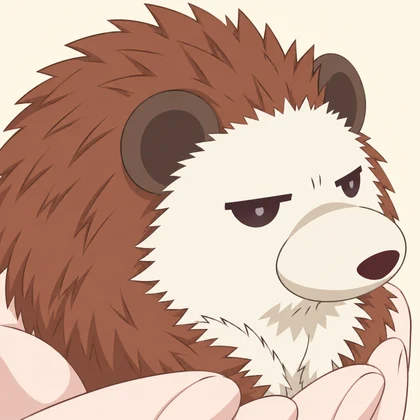
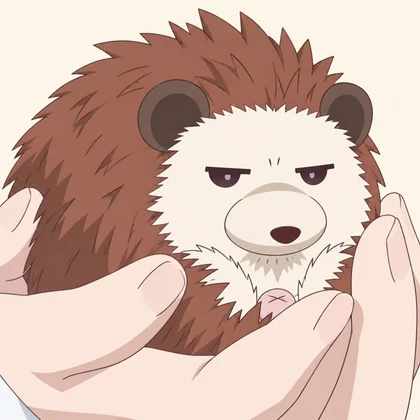
Cover the old theme before switching and refine the held Soujirou detail

diff --git a/__tests__/themes/medium/rewardProgression.test.js b/__tests__/themes/medium/rewardProgression.test.js
@@ -1,5 +1,5 @@
 import React, { StrictMode } from 'react'
-import { act, renderHook } from '@testing-library/react'
+import { act, fireEvent, renderHook, screen } from '@testing-library/react'
 import RewardProvider, {
   useReward
 } from '@/themes/medium/components/RewardProvider'
@@ -8,11 +8,25 @@ import { REWARD_KEY, readReward } from '@/themes/medium/lib/rewardState'
 import { useVictoryReveal } from '@/themes/medium/lib/useVictoryReveal'
 
 jest.mock('@/themes/medium/components/NewGameTheme', () => ({
+  ...jest.requireActual('@/themes/medium/components/NewGameTheme'),
   __esModule: true,
-  default: () => null,
-  NewGameHero: () => null,
   prepareArtwork: jest.fn(() => Promise.resolve())
 }))
+
+jest.mock('@/lib/config', () => ({ siteConfig: () => 'AlphaBoom' }))
+jest.mock('@/themes/medium/components/RewardPlayground', () => () => null)
+jest.mock(
+  '@/themes/medium/components/RewardContextMenu',
+  () =>
+    function Menu({ onToggle }) {
+      return <button onClick={onToggle}>Toggle reward</button>
+    }
+)
+
+const finishAnimation = () =>
+  act(async () => {
+    fireEvent.animationEnd(screen.getByRole('status'))
+  })
 
 const wrapper = ({ children }) => <RewardProvider>{children}</RewardProvider>
 const flush = () => act(async () => {})
@@ -63,9 +77,18 @@ test('first victory saves the unlock, shows 3 / 2 / 1, then opens the theme once
   await advance(900)
   expect(game.result.current.active).toBe(false)
   await advance(100)
+  expect(game.result.current.active).toBe(false)
+  expect(screen.getByRole('status').dataset.stage).toBe('cover')
+  expect(game.closed).not.toHaveBeenCalled()
+  // Wall time alone must never reveal the new background ahead of the cover.
+  await advance(5000)
+  expect(game.result.current.active).toBe(false)
+  await finishAnimation()
+  expect(screen.getByRole('status').dataset.stage).toBe('reveal')
   expect(game.result.current.active).toBe(true)
   expect(game.closed).toHaveBeenCalledTimes(1)
-  await advance(5000)
+  await finishAnimation()
+  expect(screen.queryByRole('status')).toBeNull()
   expect(game.closed).toHaveBeenCalledTimes(1)
 })
 
@@ -135,6 +158,7 @@ test('the countdown pauses while the tab is hidden', async () => {
   })
   await advance(100)
   await advance(2000)
+  await finishAnimation()
   expect(game.closed).toHaveBeenCalledTimes(1)
 })
 
@@ -149,6 +173,7 @@ test('Strict Mode cannot consume the claim twice or skip the celebration', async
   expect(game.result.current.reveal.seconds).toBe(1)
   expect(game.result.current.active).toBe(false)
   await advance(1000)
+  await finishAnimation()
   expect(game.closed).toHaveBeenCalledTimes(1)
 })
 
@@ -161,8 +186,52 @@ test('a failed optional load can be retried without another game', async () => {
   expect(game.result.current.reveal.stage).toBe('error')
   expect(readReward(localStorage).unlocked).toBe(true)
   await act(async () => {
-    await game.result.current.reveal.retry()
+    void game.result.current.reveal.retry()
   })
+  await finishAnimation()
   expect(game.result.current.active).toBe(true)
   expect(game.closed).toHaveBeenCalledTimes(1)
+})
+
+test('child animation events cannot prematurely switch the background', async () => {
+  const game = setup()
+  game.rerender({ phase: 'won' })
+  await advance(3000)
+  fireEvent.animationEnd(screen.getByText('EXTRA STAGE / UNLOCKED'))
+  expect(game.result.current.active).toBe(false)
+  expect(screen.getByRole('status').dataset.stage).toBe('cover')
+  await finishAnimation()
+  expect(game.result.current.active).toBe(true)
+})
+
+test('leaving the game during the cover animation cancels the pending reveal', async () => {
+  const game = setup()
+  game.rerender({ phase: 'won' })
+  await advance(3000)
+  game.rerender({ phase: 'playing' })
+  await finishAnimation()
+  expect(game.result.current.active).toBe(false)
+  expect(screen.queryByRole('status')).toBeNull()
+  expect(game.closed).not.toHaveBeenCalled()
+})
+
+test('manual re-entry uses the same cover-first order and can be cancelled', async () => {
+  localStorage.setItem(
+    REWARD_KEY,
+    JSON.stringify({ unlocked: true, enabled: false })
+  )
+  const game = setup()
+  await flush()
+  fireEvent.click(screen.getByRole('button', { name: 'Toggle reward' }))
+  await flush()
+  expect(game.result.current.active).toBe(false)
+  expect(screen.getByRole('status').dataset.stage).toBe('cover')
+  fireEvent.click(screen.getByRole('button', { name: 'Toggle reward' }))
+  await flush()
+  expect(screen.queryByRole('status')).toBeNull()
+  expect(game.result.current.active).toBe(false)
+  fireEvent.click(screen.getByRole('button', { name: 'Toggle reward' }))
+  await flush()
+  await finishAnimation()
+  expect(game.result.current.active).toBe(true)
 })

diff --git a/themes/medium/components/RewardProvider.js b/themes/medium/components/RewardProvider.js
@@ -22,12 +22,18 @@ export default function RewardProvider({ children }) {
   const [reward, setReward] = useState(EMPTY_REWARD)
   const [Appearance, setAppearance] = useState(null)
   const [Hero, setHero] = useState(null)
-  const [opening, setOpening] = useState(false)
+  const [opening, setOpening] = useState(null)
+  const pendingOpening = useRef(null)
   const currentReward = useRef(EMPTY_REWARD)
   const mounted = useRef(false)
   const loading = useRef(null)
   const revision = useRef(0)
   const unlockCommand = useRef(null)
+  const cancelOpening = useCallback(() => {
+    pendingOpening.current?.resolve(false)
+    pendingOpening.current = null
+    if (mounted.current) setOpening(null)
+  }, [])
   const loadAppearance = useCallback(async () => {
     if (!loading.current)
       loading.current = import('./NewGameTheme').catch(error => {
@@ -44,6 +50,7 @@ export default function RewardProvider({ children }) {
   useEffect(() => {
     mounted.current = true
     const restore = async () => {
+      cancelOpening()
       const request = ++revision.current
       // Accessing localStorage itself can throw in privacy-restricted contexts.
       let saved = EMPTY_REWARD
@@ -71,15 +78,11 @@ export default function RewardProvider({ children }) {
     window.addEventListener('storage', onStorage)
     return () => {
       mounted.current = false
+      cancelOpening()
       revision.current++
       window.removeEventListener('storage', onStorage)
     }
-  }, [loadAppearance])
-  useEffect(() => {
-    if (!opening) return
-    const timer = setTimeout(() => setOpening(false), 1800)
-    return () => clearTimeout(timer)
-  }, [opening])
+  }, [loadAppearance, cancelOpening])
   const persist = value => {
     currentReward.current = value
     setReward(value)
@@ -88,6 +91,7 @@ export default function RewardProvider({ children }) {
     } catch {}
   }
   const prepareReveal = next => {
+    cancelOpening()
     const request = ++revision.current
     persist({ ...next, enabled: currentReward.current.enabled })
     // Warm the optional assets while congratulations/countdown are visible.
@@ -99,11 +103,31 @@ export default function RewardProvider({ children }) {
       await module.prepareArtwork()
       if (!mounted.current || request !== revision.current || !isCurrent())
         return false
-      revision.current++
-      persist(next)
-      setOpening(true)
-      return true
+      return new Promise(resolve => {
+        pendingOpening.current = { request, next, isCurrent, resolve }
+        // Keep the current page until the entrance animation fully covers it.
+        setOpening('cover')
+      })
     }
+  }
+  const commitCoveredTheme = () => {
+    const pending = pendingOpening.current
+    if (!pending) return
+    pendingOpening.current = null
+    if (
+      !mounted.current ||
+      pending.request !== revision.current ||
+      !pending.isCurrent()
+    ) {
+      setOpening(null)
+      pending.resolve(false)
+      return
+    }
+    revision.current++
+    persist(pending.next)
+    // The reveal begins fully opaque, in the same commit as the new theme.
+    setOpening('reveal')
+    pending.resolve(true)
   }
   const claimReward = phase => {
     const next = rewardAfterVictory(phase, currentReward.current)
@@ -122,10 +146,14 @@ export default function RewardProvider({ children }) {
     []
   )
   const toggleReward = () => {
-    if (!reward.unlocked) return
-    revision.current++
-    persist({ unlocked: true, enabled: !reward.enabled })
-    setOpening(!reward.enabled)
+    if (!currentReward.current.unlocked) return
+    if (currentReward.current.enabled || pendingOpening.current) {
+      revision.current++
+      cancelOpening()
+      persist({ unlocked: true, enabled: false })
+    } else {
+      void unlockReward('won').catch(() => {})
+    }
   }
   return (
     <RewardContext.Provider
@@ -142,6 +170,8 @@ export default function RewardProvider({ children }) {
         <Appearance
           active={reward.enabled}
           opening={opening}
+          onCovered={commitCoveredTheme}
+          onOpeningEnd={() => setOpening(null)}
           onToggle={toggleReward}
         />
       )}

diff --git a/themes/medium/components/NewGameTheme.js b/themes/medium/components/NewGameTheme.js
@@ -119,7 +119,13 @@ export function NewGameHero() {
   )
 }
 
-export default function NewGameTheme({ active, opening, onToggle }) {
+export default function NewGameTheme({
+  active,
+  opening,
+  onToggle,
+  onCovered,
+  onOpeningEnd
+}) {
   return (
     <>
       <RewardContextMenu active={active} onToggle={onToggle} />
@@ -149,8 +155,17 @@ export default function NewGameTheme({ active, opening, onToggle }) {
           </div>
         </>
       )}
-      {active && opening && (
-        <div className='ng-unlock-opening' role='status'>
+      {opening && (
+        <div
+          className='ng-unlock-opening'
+          data-stage={opening}
+          role='status'
+          onAnimationEnd={event => {
+            if (event.target !== event.currentTarget) return
+            if (opening === 'cover') onCovered()
+            else onOpeningEnd()
+          }}
+        >
           <div>
             <span>EXTRA STAGE / UNLOCKED</span>
             <Wordmark />
@@ -1000,7 +1015,14 @@ export default function NewGameTheme({ active, opening, onToggle }) {
             #a681c9 0deg 12deg,
             #d59cc8 12deg 24deg
           );
-          animation: ng-unlock-reveal 1800ms both;
+          background-color: #a681c9;
+          clip-path: polygon(0 0, 100% 0, 100% 100%, 0 100%);
+        }
+        .ng-unlock-opening[data-stage='cover'] {
+          animation: ng-unlock-cover 270ms both;
+        }
+        .ng-unlock-opening[data-stage='reveal'] {
+          animation: ng-unlock-reveal 1530ms both;
         }
         .ng-unlock-opening > div {
           padding: 30px;
@@ -1023,12 +1045,29 @@ export default function NewGameTheme({ active, opening, onToggle }) {
           font-size: 13px;
           margin-top: 28px;
         }
-        @keyframes ng-unlock-reveal {
-          0% {
+        @keyframes ng-unlock-cover {
+          from {
             clip-path: polygon(0 45%, 100% 45%, 100% 55%, 0 55%);
           }
-          15%,
-          65% {
+          to {
+            clip-path: polygon(0 0, 100% 0, 100% 100%, 0 100%);
+          }
+        }
+        @keyframes ng-unlock-cover-still {
+          from,
+          to {
+            clip-path: polygon(0 0, 100% 0, 100% 100%, 0 100%);
+          }
+        }
+        @keyframes ng-unlock-reveal-still {
+          from,
+          to {
+            clip-path: polygon(0 0, 100% 0, 100% 100%, 0 100%);
+          }
+        }
+        @keyframes ng-unlock-reveal {
+          0%,
+          59% {
             clip-path: polygon(0 0, 100% 0, 100% 100%, 0 100%);
             transform: none;
           }
@@ -1441,7 +1480,12 @@ export default function NewGameTheme({ active, opening, onToggle }) {
         @media (prefers-reduced-motion: reduce) {
           .ng-unlock-opening {
             background: #9770b7;
-            animation: none;
+          }
+          .ng-unlock-opening[data-stage='cover'] {
+            animation: ng-unlock-cover-still 1ms both;
+          }
+          .ng-unlock-opening[data-stage='reveal'] {
+            animation: ng-unlock-reveal-still 180ms both;
           }
           .ng-unlock-opening > div {
             transform: none;

diff --git a/public/images/new-game/README.md b/public/images/new-game/README.md
@@ -16,8 +16,8 @@ All assets are served locally. They are referenced only by the optional reward m
 
 ## Soujirou expression inset
 
-`soujirou-closeup.webp`: 420 × 420, 21,120 bytes. An AI-assisted close-up edited with the built-in imagegen tool on 2026-09-08. The two supplied references were the previously approved avatar-based expression inset and `hifumi-soujirou.webp`. The grumpy, unreceptive ご機嫌ななめ expression, lowered eyelids and large ivory muzzle are preserved. The pose is now a three-quarter view facing screen right, matching the hedgehog in Hifumi's cupped hands; her fingers also appear along the bottom of the detail. This is a fan illustration, not an official animation frame. The original full character artwork remains unchanged.
+`soujirou-closeup.webp`: 420 × 420, 20,566 bytes. An AI-assisted close-up edited with the built-in imagegen tool on 2026-09-08. The authoritative pose/style reference was the hand region of `hifumi-soujirou.webp`; the second reference was the previously approved front-facing avatar-based expression inset from commit `16cd8066`. This revision corrects the previous elongated side profile toward a shallow three-quarter view with both eyes visible, a broader ivory face, lower wide oval muzzle, level unreceptive eyelids, compact rounded body and cupped fingers around it. It preserves the grumpy ご機嫌ななめ attitude. This is a fan illustration, not an official animation frame. The original full character artwork remains unchanged.
 
-Converted to WebP quality 87. The optional theme presents it in a rounded rectangular detail panel, with a solid connector to a locator around the hedgehog in her hands. The full artwork, locator and inset share one aspect-ratio scene so resizing and animation do not separate them. There are no thought-bubble dots.
+Converted to WebP quality 87. The optional theme presents it in a rounded rectangular detail panel, with a solid connector to a locator around the hedgehog in her hands. The full artwork, locator and inset share one aspect-ratio scene so resizing and animation do not separate them. There are no thought-bubble dots or visible caption labels.
 
 The exact final image-edit prompt is recorded in [soujirou-pose-prompt.txt](soujirou-pose-prompt.txt).
